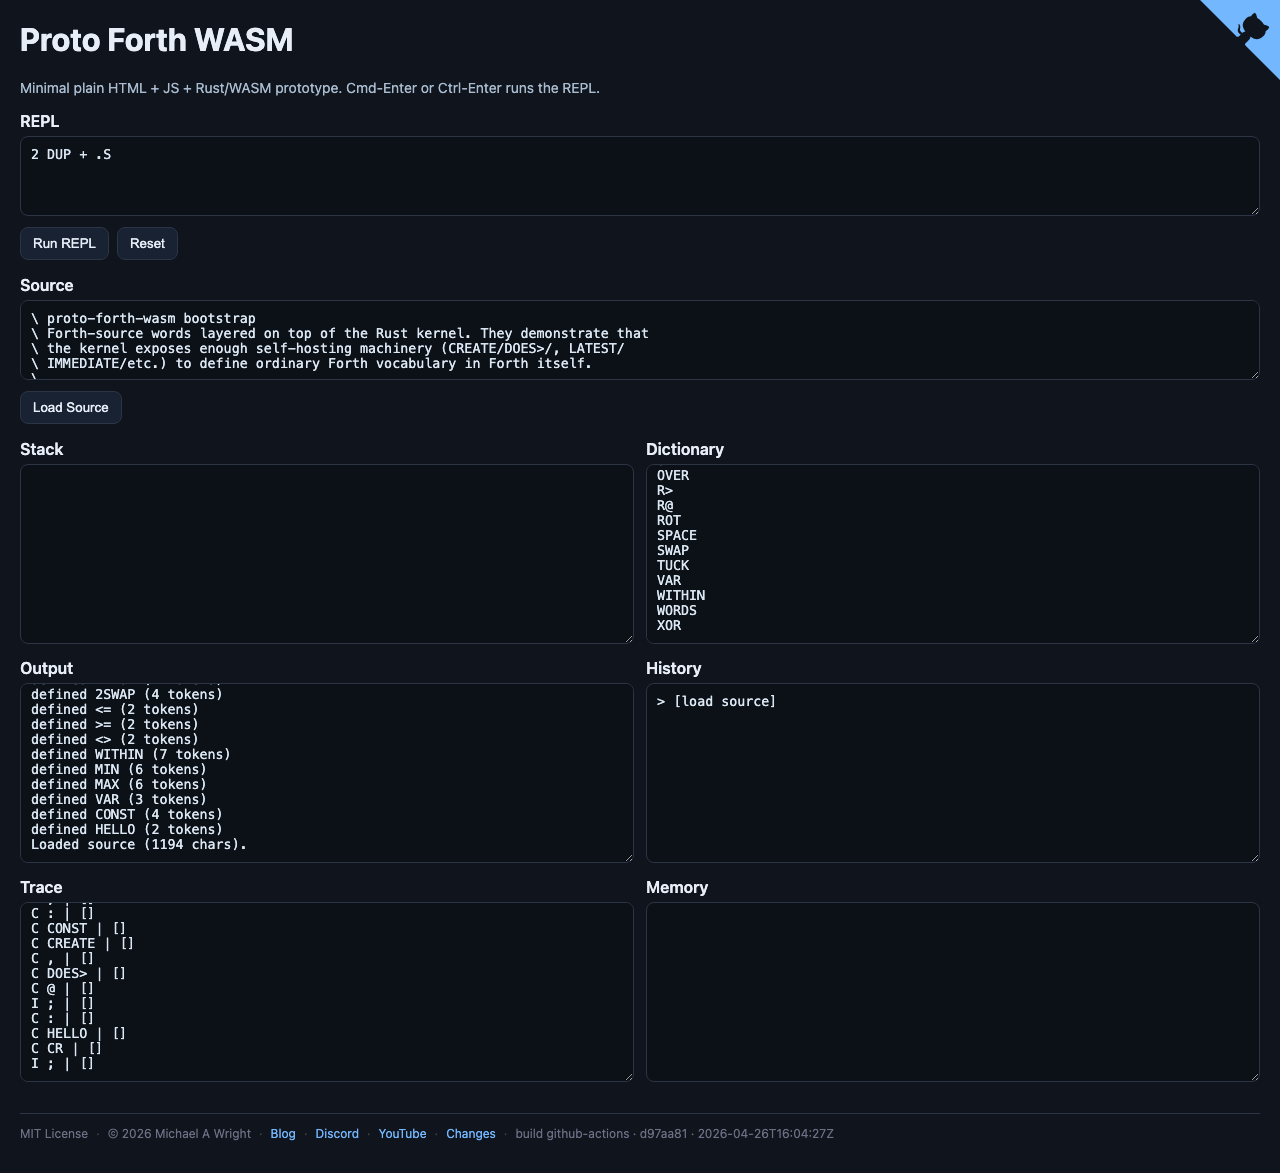
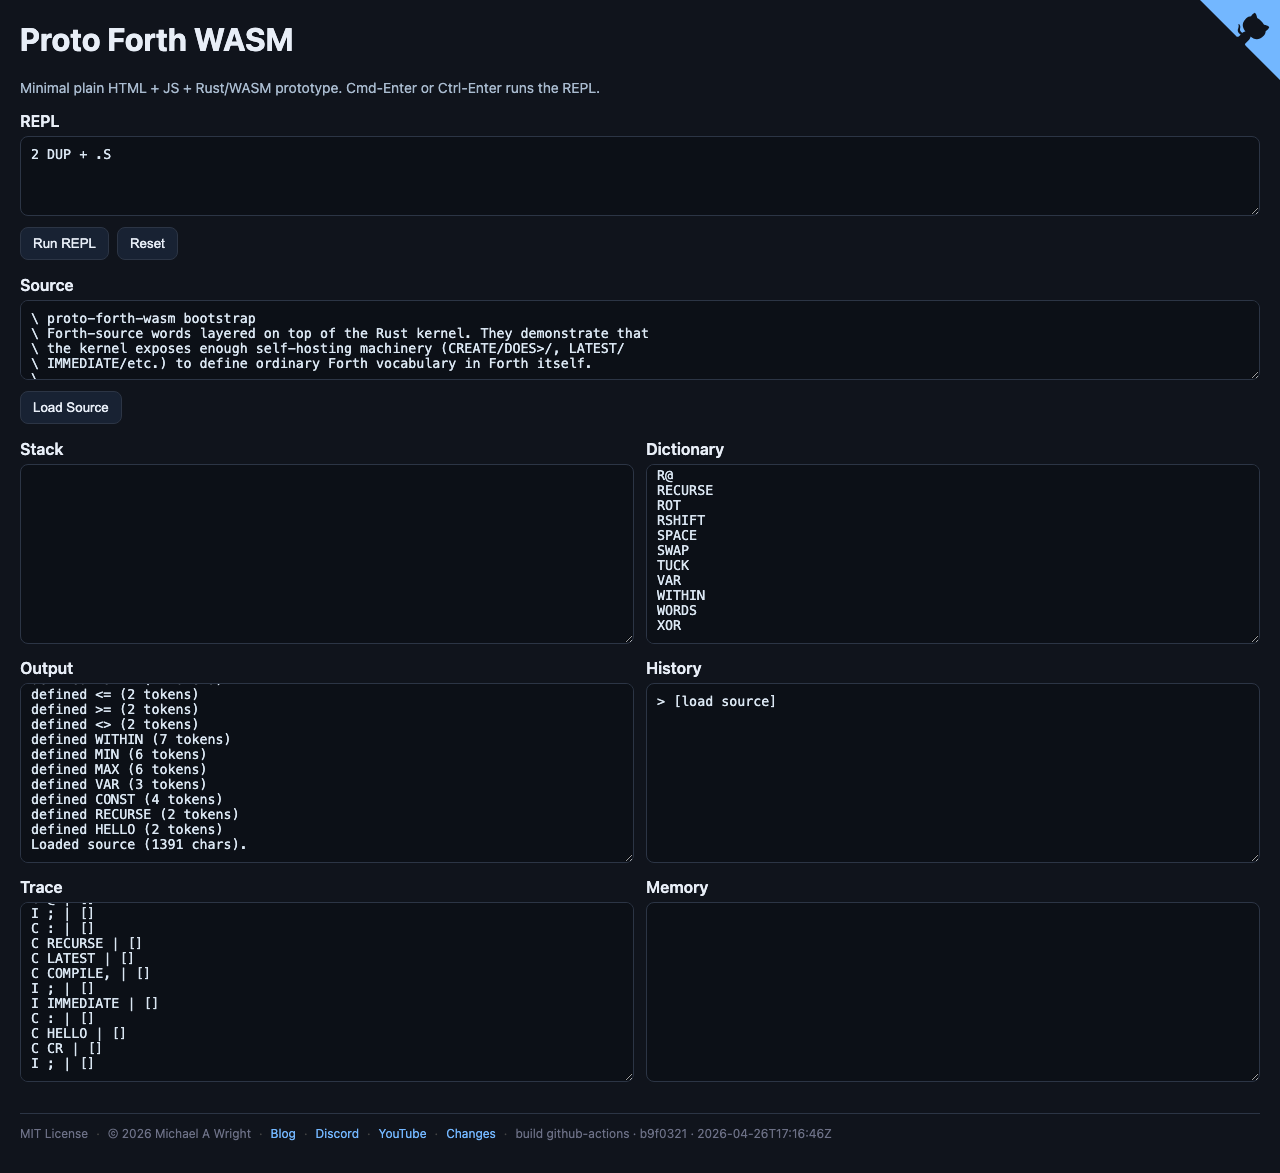
Refresh screenshot for LSHIFT/RSHIFT/COMPILE,/RECURSE
Resnap after b9f0321 landed; banner now lists LSHIFT RSHIFT COMPILE,
under Primitives, and the bootstrap-loaded RECURSE shows up in
Dictionary. Bumps cache-buster ?ts to 1777225460690.

diff --git a/README.md b/README.md
@@ -4,7 +4,7 @@ Minimal plain HTML + JS + Rust/WASM prototype for a proto-Forth workbench.
 
 **Live demo:** <https://sw-vibe-coding.github.io/sw-fth-wasm/>
 
-![screenshot](images/screenshot.png?ts=1777223675862)
+![screenshot](images/screenshot.png?ts=1777225460690)
 
 ## What it does
 
